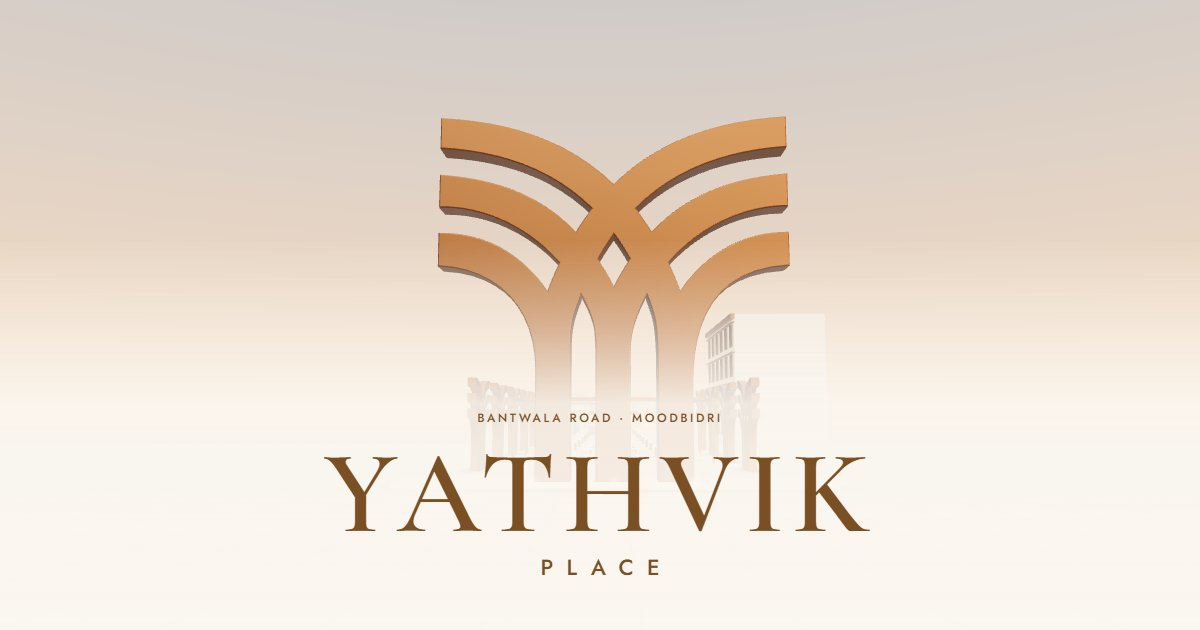
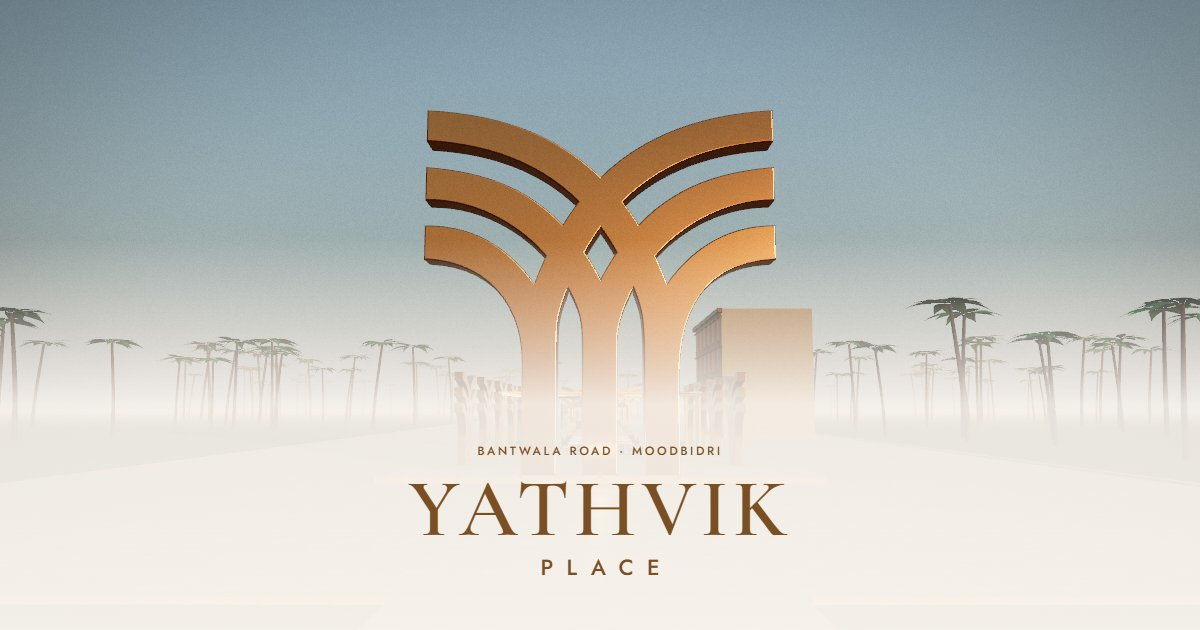
Refresh social preview; document the realistic renderer

diff --git a/README.md b/README.md
@@ -21,6 +21,7 @@ and hosting. Read it before changing anything on the site.
 | `js/ui.js` | Markup builders (used by the build and the browser); scroll tracking |
 | `js/scene.js` | The 3D world (Three.js). Knows nothing about the text |
 | `js/chapters.js` | Camera stops, time-of-day moods and the scene layout per chapter |
+| `textures/` | CC0 PBR textures for the 3D scene, desktop (`1k`) and phone (`512`) sizes |
 | `brand/` | Logo files — `mark.svg` is also the source of the 3D gateway and the favicon |
 | `images/<slot>/` | Photos for each section: `restaurant`, `rooms`, `bar`, `hall` |
 | `images/og/` | Social-sharing preview (`og.jpg`) and icons |
@@ -85,12 +86,22 @@ Photos appear as a swipeable strip inside the chapter's panel, on top of the
 
 ## The 3D scene
 
-- Everything is generated in code; the only asset is `brand/mark.svg`, which
-  is extruded into the bronze gateway, the colonnade and the hall's rotunda.
+- Generated in code, with one geometry asset: `brand/mark.svg`, extruded into
+  the bronze gateway, the colonnade and the hall's rotunda. Palms, furniture,
+  lamps and the building are also procedural.
+- Realism: a physically based sky (Three.js `Sky`) whose light is pre-computed
+  into reflection maps for dawn, day, dusk and night; CC0 PBR textures from
+  Poly Haven in `textures/` (marble, plaster, cherry wood — credits in
+  `textures/README.md`); soft sun shadows; HDR glow on lamps; ACES tone
+  mapping; light film grain and vignette.
+- Each chapter pays only for what it shows: glow is off in daylight, and the
+  shadow map stops updating at night when the moonlight is too faint to matter.
 - Three.js r170 is loaded from jsDelivr through the import map in
-  `index.html`. It is only downloaded if the device supports WebGL.
-- Phones get a lower pixel ratio (max 1.5), fewer curve segments and fewer
-  particles. If the first frames are slow, the scene drops to 1× pixel ratio.
+  `index.html`, only if the device supports WebGL.
+- Phones get 512 px textures (marble stays 1k), a 1024 shadow map, pixel ratio
+  up to 1.5 and fewer palms and particles. If frames stay slow after start-up,
+  quality steps down in this order: pixel ratio, shadow-map size, glow, pixel
+  ratio 1, shadows. Add `?debug` to the URL to log frame times and each step.
 - Without WebGL, a CSS gradient with the bronze mark stands in, changing colour
   per chapter. With "reduce motion" switched on, the camera cuts between
   chapters instead of gliding, and nothing drifts.

diff --git a/PROJECT.md b/PROJECT.md
@@ -180,6 +180,20 @@ from the logo mark, from dawn to night:
   real phone** — performance on low-end Android handsets is unverified.
 - Brand assets: `brand/`. Social preview: `images/og/og.jpg`.
 
+### Realism upgrade (23 Sep 2026)
+
+The scene was moved from a stylised look towards photoreal rendering: a
+physically based sky with matching reflections per time of day, CC0 PBR
+textures (Poly Haven marble, plaster, cherry wood), soft sun shadows, HDR glow
+on lamps, film grain; a marble plaza with lawn and coconut palms around it;
+chairs, turned lamps and stools, glazed windows with lit rooms. It is still a
+3D render of an invented layout, not the real building — real photos or
+footage remain the only way to show the actual place.
+
+Checked in desktop Chrome (1440×900, Intel Iris Xe) and 390×844 phone
+emulation: all effects hold full frame rate on that laptop once start-up has
+settled. **Not yet tested on a real phone.**
+
 ### SEO (23 Sep 2026)
 
 - All text, links and structured data are written into the HTML by
